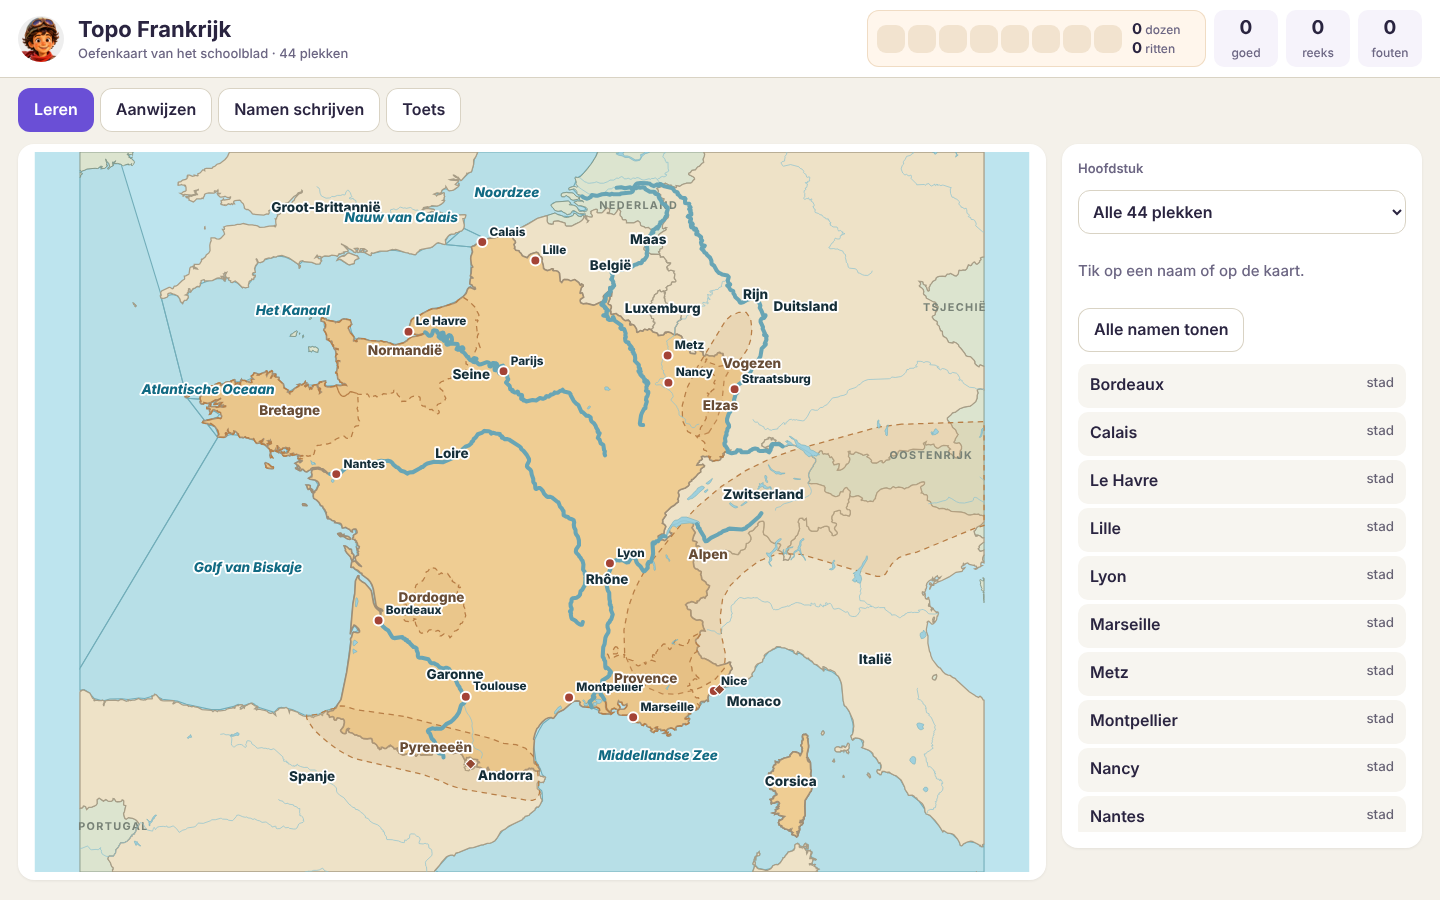
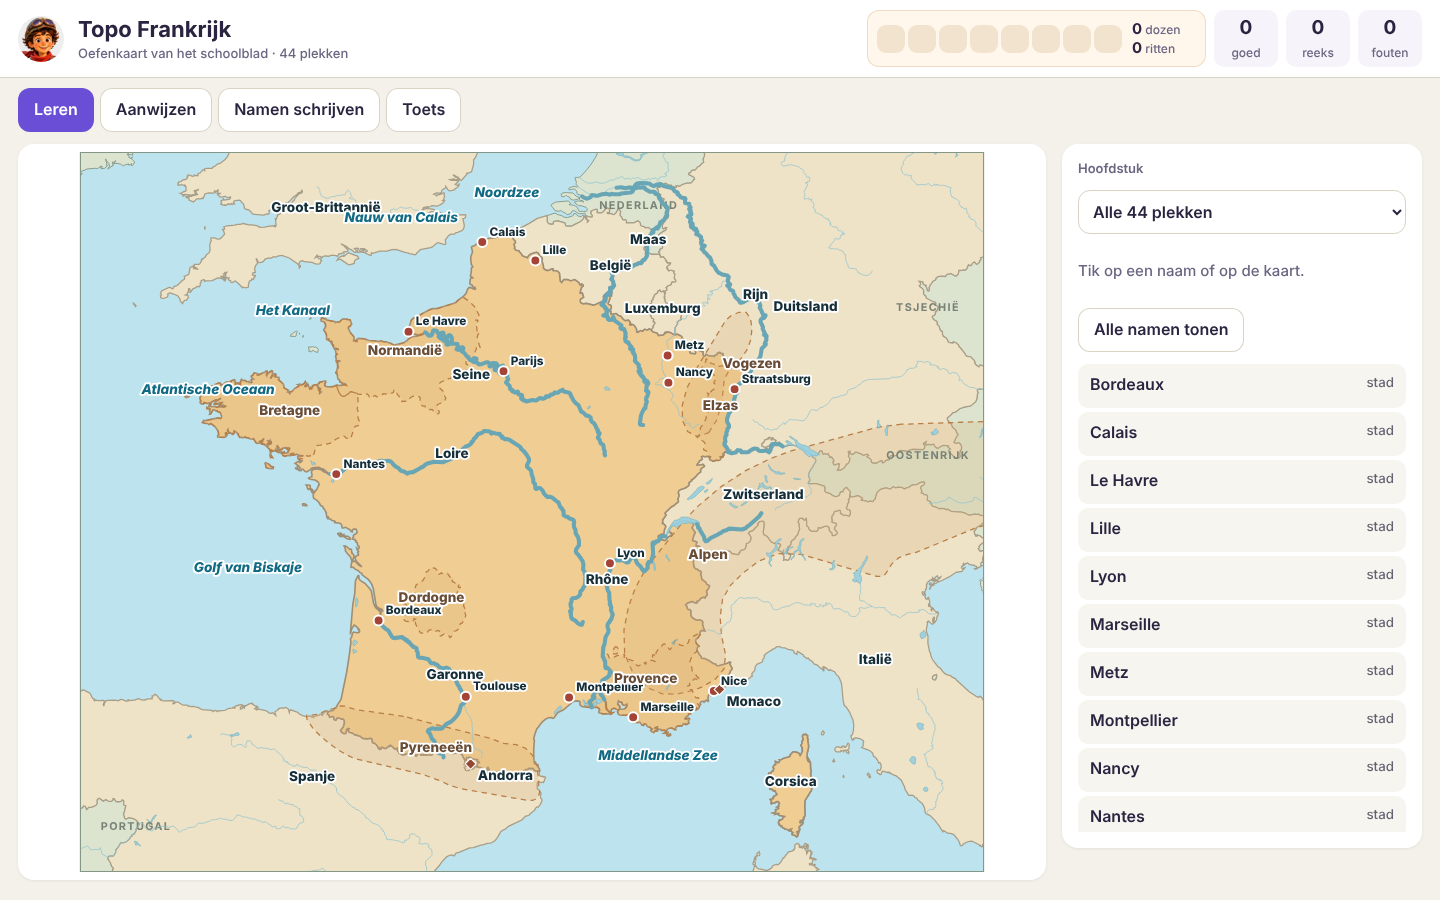
land/fr: kaart op het kader afgesneden; geen zee buiten het kader, geen getekende zeezones
Land loopt door tot de kaartrand (geen schijnkusten), zee egaal; zeevlakken
alleen voor aanwijzen en hover. Contextlabels binnen het kader.
Tests: app 44/44, randgevallen 34/34.

Claude-Session: https://claude.ai/code/session_016PmNff13Q6BeHbzCJ33MaQ

Changed region(s): [[0.625, 0.1556, 0.7188, 0.9956], [0.0, 0.1556, 0.125, 0.9956]]

diff --git a/output/fr/TOPO-Frankrijk-oefenkaart.html b/output/fr/TOPO-Frankrijk-oefenkaart.html
@@ -48,7 +48,7 @@ ul.items small{font-weight:500;opacity:.7}
 .muted{color:var(--soft);font-size:13px}
 /* kaart: zelfde kleuren als de Italie-kaart (v2): focusland warm, lesstof-landen perkament, context grijsgroen */
 .sea{fill:#bde4ee}
-.water{fill:#acd5dc;fill-opacity:.36;stroke:#71adb9;stroke-width:1.2}
+.water{fill:#bde4ee;fill-opacity:0;stroke:none}
 .ctx-land{fill:#dce4cf;stroke:#849685;stroke-width:1}
 .country{fill:#eee2c7;stroke:#a89d86;stroke-width:1.4}
 .fr,.island{fill:#efcd93;stroke:#9f8e76;stroke-width:1.8}
@@ -80,6 +80,7 @@ svg#map{cursor:pointer}
 .lbl.region{fill:#684c35}
 .lbl.hovlbl{fill:#7a3a12}
 .tap{fill:none;stroke:var(--ink);stroke-width:1.5;stroke-dasharray:3 3;pointer-events:none}
+.frame{fill:none;stroke:#849685;stroke-width:1.2;pointer-events:none}
 @media (prefers-reduced-motion:no-preference){.pulse{animation:pulse 1.2s ease-in-out infinite}@keyframes pulse{50%{opacity:.45}}}
 footer{padding:0 18px 18px;color:var(--soft);font-size:12px}
 /* beloning: bakkerijdoos met 8 gebakjes, 3 volle dozen = Vespa-rit */
@@ -170,16 +171,21 @@ const el=(n,a,p)=>{const e=document.createElementNS(NS,n);for(const k in a)e.set
 const AREA_CLASS={buurland:'country',zee:'water',regio:'zone',gebergte:'zone',eiland:'island'};
 const NODE={}, DOT={}, SMALL=new Set();
 const layer=()=>el('g',{});
-el('rect',{x:-50,y:-50,width:W+100,height:H+100,class:'sea'});
-const gWater=layer();
-el('path',{d:MAP.context.land,class:'ctx-land'});
-const gCountry=layer();
-el('path',{d:MAP.context.france,class:'fr'});
-const gIsland=layer(), gZone=layer();
-el('path',{d:MAP.context.lakes,class:'lakes'});
-for(const l of MAP.context.labels){const t=el('text',{x:l.x,y:l.y,class:'ctxlbl','text-anchor':'middle'});t.textContent=l.t;}
-el('path',{d:MAP.context.rivers,class:'ctx-rivers'});
-const gRiver=layer(), gHL=layer(), gMarks=layer(), gLbl=layer();
+// alles wordt op het kaartkader afgesneden: buiten het kader geen zee, land loopt tot de rand door
+const defs=el('defs',{}), cp=el('clipPath',{id:'frameClip'},defs); el('rect',{x:0,y:0,width:W,height:H},cp);
+const ROOT=el('g',{'clip-path':'url(#frameClip)'});
+const _el=el; 
+el('rect',{x:0,y:0,width:W,height:H,class:'sea'},ROOT);
+const gWater=el('g',{},ROOT);
+el('path',{d:MAP.context.land,class:'ctx-land'},ROOT);
+const gCountry=el('g',{},ROOT);
+el('path',{d:MAP.context.france,class:'fr'},ROOT);
+const gIsland=el('g',{},ROOT), gZone=el('g',{},ROOT);
+el('path',{d:MAP.context.lakes,class:'lakes'},ROOT);
+for(const l of MAP.context.labels){const t=el("text",{x:Math.min(W-62,Math.max(62,l.x)),y:Math.min(H-14,Math.max(20,l.y)),class:'ctxlbl','text-anchor':'middle'},ROOT);t.textContent=l.t;}
+el('path',{d:MAP.context.rivers,class:'ctx-rivers'},ROOT);
+const gRiver=el('g',{},ROOT), gHL=el('g',{},ROOT), gMarks=el('g',{},ROOT), gLbl=el('g',{},ROOT);
+el('rect',{x:.5,y:.5,width:W-1,height:H-1,class:'frame'});
 const gTargets=gZone;
 const GROUP={country:gCountry,water:gWater,zone:gZone,island:gIsland};
 // vlakken: zichtbaar zoals bij Italie (zeeen, landen, gestippelde zones voor streken en gebergten)
@@ -259,7 +265,7 @@ function openPicker(list,x,y,named,cb){
   pickCb=cb;const n=list.length;
   // uitsnede rond de tik, groot genoeg voor alle ankers
   const far=Math.max(...list.map(c=>Math.hypot(c.a[0]-x,c.a[1]-y)));
-  const S=Math.max(90,far*3.2), x0=x-S/2, y0=y-S/2, k=S/400; // k = eenheden per px in de uitsnede (±400 px breed)
+  const S=Math.max(90,far*3.2), x0=Math.max(0,Math.min(W-S,x-S/2)), y0=Math.max(0,Math.min(H-S,y-S/2)), k=S/400; // k = eenheden per px in de uitsnede (±400 px breed)
   const ns=list.map(c=>({...c,a:c.a.slice()})), order=shuffle(ns.map((_,i)=>i)); // nummer per kandidaat, willekeurig
   // vallen twee ankers samen (stad aan rivier), dan wijst het lijntje van de rivier naar een stuk rivier ernaast
   ns.forEach((c,i)=>{ if(BYID[c.id].type!=='rivier') return;
@@ -271,7 +277,7 @@ function openPicker(list,x,y,named,cb){
   const base=ang[idx[0]]??-Math.PI/2, R=S*0.34, br=S*0.06;
   const pos={}; idx.forEach((i,j)=>{const t=base+j*2*Math.PI/n;pos[i]=[x+Math.cos(t)*R,y+Math.sin(t)*R]});
   const sw=v=>`stroke-width="${v}" vector-effect="non-scaling-stroke"`;
-  let h=`<rect x="${x0-S}" y="${y0-S}" width="${3*S}" height="${3*S}" class="sea"/>${ITEMS.filter(i=>AREA_CLASS[i.type]==='water').map(i=>`<path d="${MAP.items[i.id].d}" class="water" ${sw(1)}/>`).join('')}<path d="${MAP.context.land}" class="ctx-land" ${sw(1)}/>${ITEMS.filter(i=>AREA_CLASS[i.type]==='country').map(i=>`<path d="${MAP.items[i.id].d}" class="country" ${sw(1.4)}/>`).join('')}<path d="${MAP.context.france}" class="fr" ${sw(1.8)}/>${ITEMS.filter(i=>AREA_CLASS[i.type]==='zone').map(i=>`<path d="${MAP.items[i.id].d}" class="zone" fill-rule="evenodd" ${sw(1.4)}/>`).join('')}<path d="${MAP.context.lakes}" class="lakes"/><path d="${MAP.context.rivers}" class="ctx-rivers" ${sw(1)}/>`;
+  let h=`<rect x="0" y="0" width="${W}" height="${H}" class="sea"/>${ITEMS.filter(i=>AREA_CLASS[i.type]==='water').map(i=>`<path d="${MAP.items[i.id].d}" class="water" ${sw(1)}/>`).join('')}<path d="${MAP.context.land}" class="ctx-land" ${sw(1)}/>${ITEMS.filter(i=>AREA_CLASS[i.type]==='country').map(i=>`<path d="${MAP.items[i.id].d}" class="country" ${sw(1.4)}/>`).join('')}<path d="${MAP.context.france}" class="fr" ${sw(1.8)}/>${ITEMS.filter(i=>AREA_CLASS[i.type]==='zone').map(i=>`<path d="${MAP.items[i.id].d}" class="zone" fill-rule="evenodd" ${sw(1.4)}/>`).join('')}<path d="${MAP.context.lakes}" class="lakes"/><path d="${MAP.context.rivers}" class="ctx-rivers" ${sw(1)}/>`;
   for(const it of ITEMS){const m=MAP.items[it.id];if(it.type==='rivier')h+=`<path d="${m.d}" class="lineTarget" ${sw(3.5)}/>`;}
   ns.forEach(c=>{const t=BYID[c.id].type,m=MAP.items[c.id];
     if(AREA(t)&&m.x==null)h+=`<path d="${m.d}" class="pk-area" fill-rule="evenodd" ${sw(2)}/>`;
@@ -471,7 +477,7 @@ svg.addEventListener('pointermove',e=>{ if(e.pointerType==='touch') return; cons
 svg.addEventListener('pointerleave',()=>{cancelAnimationFrame(hovRaf);setHover(null);});
 
 // ---------- invoer ----------
-svg.addEventListener('click',e=>{ if(!onTap) return; const p=toSvg(e.clientX,e.clientY); onTap(p.x,p.y); });
+svg.addEventListener('click',e=>{ if(!onTap) return; const p=toSvg(e.clientX,e.clientY); if(p.x<0||p.y<0||p.x>W||p.y>H) return; onTap(p.x,p.y); });
 document.querySelectorAll('nav button').forEach(b=>b.onclick=()=>start(b.dataset.mode));
 stats();boxRender(-1);start("leren");
 </script>

diff --git a/scripts/fr/app.html b/scripts/fr/app.html
@@ -48,7 +48,7 @@ ul.items small{font-weight:500;opacity:.7}
 .muted{color:var(--soft);font-size:13px}
 /* kaart: zelfde kleuren als de Italie-kaart (v2): focusland warm, lesstof-landen perkament, context grijsgroen */
 .sea{fill:#bde4ee}
-.water{fill:#acd5dc;fill-opacity:.36;stroke:#71adb9;stroke-width:1.2}
+.water{fill:#bde4ee;fill-opacity:0;stroke:none}
 .ctx-land{fill:#dce4cf;stroke:#849685;stroke-width:1}
 .country{fill:#eee2c7;stroke:#a89d86;stroke-width:1.4}
 .fr,.island{fill:#efcd93;stroke:#9f8e76;stroke-width:1.8}
@@ -80,6 +80,7 @@ svg#map{cursor:pointer}
 .lbl.region{fill:#684c35}
 .lbl.hovlbl{fill:#7a3a12}
 .tap{fill:none;stroke:var(--ink);stroke-width:1.5;stroke-dasharray:3 3;pointer-events:none}
+.frame{fill:none;stroke:#849685;stroke-width:1.2;pointer-events:none}
 @media (prefers-reduced-motion:no-preference){.pulse{animation:pulse 1.2s ease-in-out infinite}@keyframes pulse{50%{opacity:.45}}}
 footer{padding:0 18px 18px;color:var(--soft);font-size:12px}
 /* beloning: bakkerijdoos met 8 gebakjes, 3 volle dozen = Vespa-rit */
@@ -170,16 +171,21 @@ const el=(n,a,p)=>{const e=document.createElementNS(NS,n);for(const k in a)e.set
 const AREA_CLASS={buurland:'country',zee:'water',regio:'zone',gebergte:'zone',eiland:'island'};
 const NODE={}, DOT={}, SMALL=new Set();
 const layer=()=>el('g',{});
-el('rect',{x:-50,y:-50,width:W+100,height:H+100,class:'sea'});
-const gWater=layer();
-el('path',{d:MAP.context.land,class:'ctx-land'});
-const gCountry=layer();
-el('path',{d:MAP.context.france,class:'fr'});
-const gIsland=layer(), gZone=layer();
-el('path',{d:MAP.context.lakes,class:'lakes'});
-for(const l of MAP.context.labels){const t=el('text',{x:l.x,y:l.y,class:'ctxlbl','text-anchor':'middle'});t.textContent=l.t;}
-el('path',{d:MAP.context.rivers,class:'ctx-rivers'});
-const gRiver=layer(), gHL=layer(), gMarks=layer(), gLbl=layer();
+// alles wordt op het kaartkader afgesneden: buiten het kader geen zee, land loopt tot de rand door
+const defs=el('defs',{}), cp=el('clipPath',{id:'frameClip'},defs); el('rect',{x:0,y:0,width:W,height:H},cp);
+const ROOT=el('g',{'clip-path':'url(#frameClip)'});
+const _el=el; 
+el('rect',{x:0,y:0,width:W,height:H,class:'sea'},ROOT);
+const gWater=el('g',{},ROOT);
+el('path',{d:MAP.context.land,class:'ctx-land'},ROOT);
+const gCountry=el('g',{},ROOT);
+el('path',{d:MAP.context.france,class:'fr'},ROOT);
+const gIsland=el('g',{},ROOT), gZone=el('g',{},ROOT);
+el('path',{d:MAP.context.lakes,class:'lakes'},ROOT);
+for(const l of MAP.context.labels){const t=el("text",{x:Math.min(W-62,Math.max(62,l.x)),y:Math.min(H-14,Math.max(20,l.y)),class:'ctxlbl','text-anchor':'middle'},ROOT);t.textContent=l.t;}
+el('path',{d:MAP.context.rivers,class:'ctx-rivers'},ROOT);
+const gRiver=el('g',{},ROOT), gHL=el('g',{},ROOT), gMarks=el('g',{},ROOT), gLbl=el('g',{},ROOT);
+el('rect',{x:.5,y:.5,width:W-1,height:H-1,class:'frame'});
 const gTargets=gZone;
 const GROUP={country:gCountry,water:gWater,zone:gZone,island:gIsland};
 // vlakken: zichtbaar zoals bij Italie (zeeen, landen, gestippelde zones voor streken en gebergten)
@@ -259,7 +265,7 @@ function openPicker(list,x,y,named,cb){
   pickCb=cb;const n=list.length;
   // uitsnede rond de tik, groot genoeg voor alle ankers
   const far=Math.max(...list.map(c=>Math.hypot(c.a[0]-x,c.a[1]-y)));
-  const S=Math.max(90,far*3.2), x0=x-S/2, y0=y-S/2, k=S/400; // k = eenheden per px in de uitsnede (±400 px breed)
+  const S=Math.max(90,far*3.2), x0=Math.max(0,Math.min(W-S,x-S/2)), y0=Math.max(0,Math.min(H-S,y-S/2)), k=S/400; // k = eenheden per px in de uitsnede (±400 px breed)
   const ns=list.map(c=>({...c,a:c.a.slice()})), order=shuffle(ns.map((_,i)=>i)); // nummer per kandidaat, willekeurig
   // vallen twee ankers samen (stad aan rivier), dan wijst het lijntje van de rivier naar een stuk rivier ernaast
   ns.forEach((c,i)=>{ if(BYID[c.id].type!=='rivier') return;
@@ -271,7 +277,7 @@ function openPicker(list,x,y,named,cb){
   const base=ang[idx[0]]??-Math.PI/2, R=S*0.34, br=S*0.06;
   const pos={}; idx.forEach((i,j)=>{const t=base+j*2*Math.PI/n;pos[i]=[x+Math.cos(t)*R,y+Math.sin(t)*R]});
   const sw=v=>`stroke-width="${v}" vector-effect="non-scaling-stroke"`;
-  let h=`<rect x="${x0-S}" y="${y0-S}" width="${3*S}" height="${3*S}" class="sea"/>${ITEMS.filter(i=>AREA_CLASS[i.type]==='water').map(i=>`<path d="${MAP.items[i.id].d}" class="water" ${sw(1)}/>`).join('')}<path d="${MAP.context.land}" class="ctx-land" ${sw(1)}/>${ITEMS.filter(i=>AREA_CLASS[i.type]==='country').map(i=>`<path d="${MAP.items[i.id].d}" class="country" ${sw(1.4)}/>`).join('')}<path d="${MAP.context.france}" class="fr" ${sw(1.8)}/>${ITEMS.filter(i=>AREA_CLASS[i.type]==='zone').map(i=>`<path d="${MAP.items[i.id].d}" class="zone" fill-rule="evenodd" ${sw(1.4)}/>`).join('')}<path d="${MAP.context.lakes}" class="lakes"/><path d="${MAP.context.rivers}" class="ctx-rivers" ${sw(1)}/>`;
+  let h=`<rect x="0" y="0" width="${W}" height="${H}" class="sea"/>${ITEMS.filter(i=>AREA_CLASS[i.type]==='water').map(i=>`<path d="${MAP.items[i.id].d}" class="water" ${sw(1)}/>`).join('')}<path d="${MAP.context.land}" class="ctx-land" ${sw(1)}/>${ITEMS.filter(i=>AREA_CLASS[i.type]==='country').map(i=>`<path d="${MAP.items[i.id].d}" class="country" ${sw(1.4)}/>`).join('')}<path d="${MAP.context.france}" class="fr" ${sw(1.8)}/>${ITEMS.filter(i=>AREA_CLASS[i.type]==='zone').map(i=>`<path d="${MAP.items[i.id].d}" class="zone" fill-rule="evenodd" ${sw(1.4)}/>`).join('')}<path d="${MAP.context.lakes}" class="lakes"/><path d="${MAP.context.rivers}" class="ctx-rivers" ${sw(1)}/>`;
   for(const it of ITEMS){const m=MAP.items[it.id];if(it.type==='rivier')h+=`<path d="${m.d}" class="lineTarget" ${sw(3.5)}/>`;}
   ns.forEach(c=>{const t=BYID[c.id].type,m=MAP.items[c.id];
     if(AREA(t)&&m.x==null)h+=`<path d="${m.d}" class="pk-area" fill-rule="evenodd" ${sw(2)}/>`;
@@ -471,7 +477,7 @@ svg.addEventListener('pointermove',e=>{ if(e.pointerType==='touch') return; cons
 svg.addEventListener('pointerleave',()=>{cancelAnimationFrame(hovRaf);setHover(null);});
 
 // ---------- invoer ----------
-svg.addEventListener('click',e=>{ if(!onTap) return; const p=toSvg(e.clientX,e.clientY); onTap(p.x,p.y); });
+svg.addEventListener('click',e=>{ if(!onTap) return; const p=toSvg(e.clientX,e.clientY); if(p.x<0||p.y<0||p.x>W||p.y>H) return; onTap(p.x,p.y); });
 document.querySelectorAll('nav button').forEach(b=>b.onclick=()=>start(b.dataset.mode));
 stats();boxRender(-1);start("leren");
 </script>

diff --git a/docs/v4/fr-geo.md b/docs/v4/fr-geo.md
@@ -39,9 +39,11 @@ In de oefenkaart staan dezelfde kleuren als in de Italië-kaart (v2):
 - Frankrijk warm oranje (`#efcd93`);
 - landen uit de lesstof in perkament (`#eee2c7`);
 - overige landen grijsgroen (`#dce4cf`), met een klein naamlabel (NEDERLAND, OOSTENRIJK, TSJECHIË, PORTUGAL);
-- zeeën lichtblauw met een fijne rand;
+- zee in één egale kleur, zonder getekende zonegrenzen (de zeevlakken zijn alleen voor aanwijzen en hover);
 - streken en gebergten als gestippelde zones;
 - rivieren dik blauw (`#68a5b5`) en steden roodbruin met een witte rand.
+
+De kaart is op het kader afgesneden. Het land loopt tot de rand door, en buiten het kader staat geen zee, dus geen enkel land lijkt aan een niet-bestaande kust te liggen.
 
 Met de muis of pen kleurt wat je zou aantikken oranje. Bij Leren verschijnt dan ook de naam.
 
